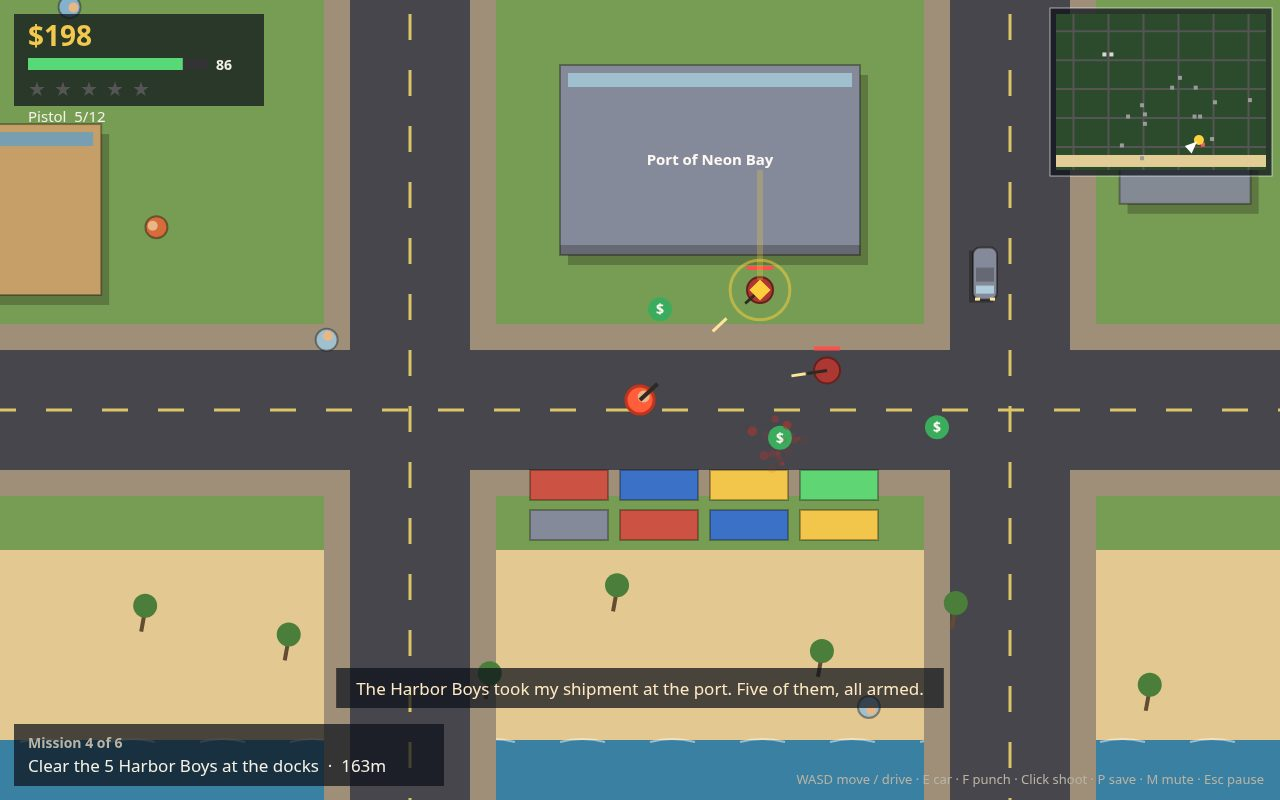
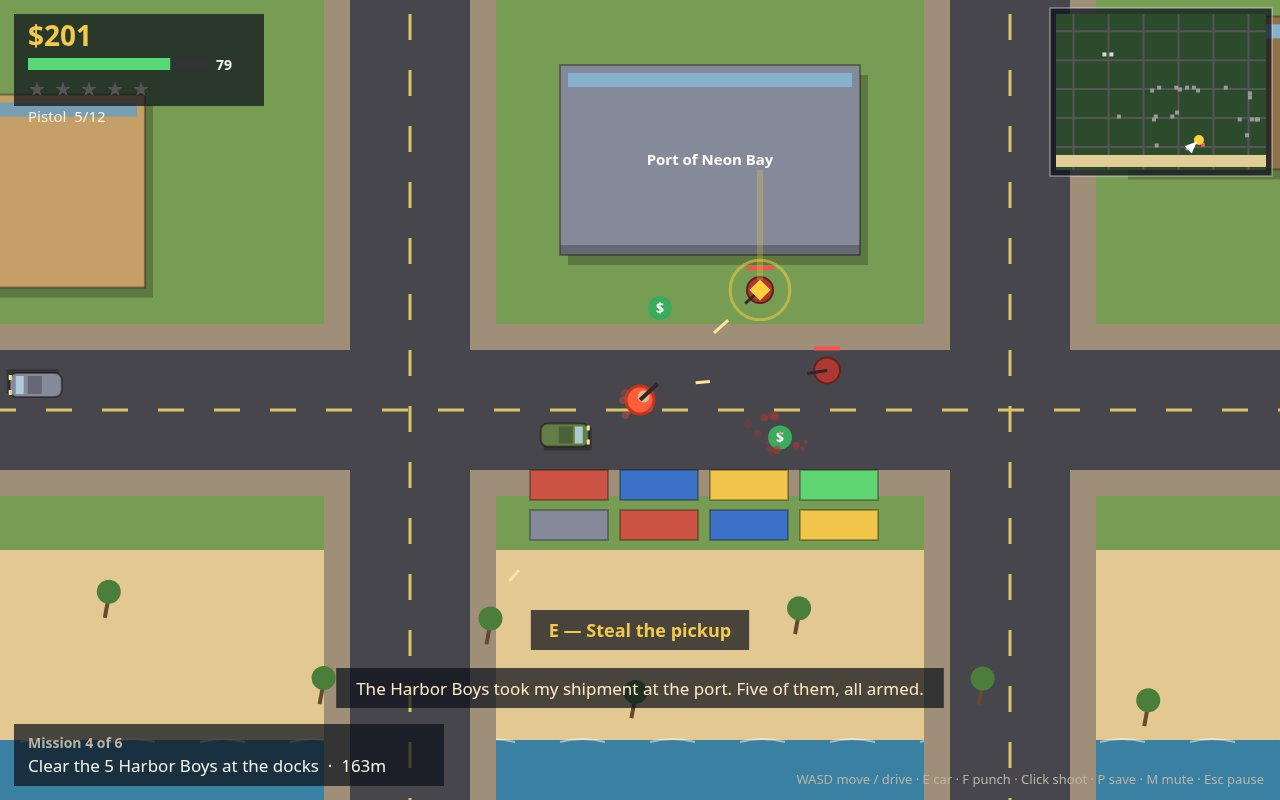
Neon Bay upgrade: fix shots.json (seed 1->7, real content change) + 100x polish
- shots.json: all 4 queries seed 1 -> 7 (fixes transcripts_witnessed rejection)
- shots.js: drive now runs downtown past Bayfront Mall (avenue 1500);
  chase adds 3rd patrol car + 3rd foot cop for a closing-net pursuit
- Screenshots regenerated at seed 7 with the new staging (verified by reading)
- Gameplay: police roadblocks at wanted >= 4, patrol cap 2 -> 3
- Near-miss bonus: +$5 for a close shave at speed without touching
- New car: Dune Runner pickup truck (spawns in traffic)
- Livelier city: traffic 14 -> 22, pedestrians 18 -> 30
- Feel: screen shake on hard crashes, skid marks on hard cornering
- HUD: speedometer (km/h + car name) when driving
- README documents the new systems

diff --git a/game/src/world.js b/game/src/world.js
@@ -101,6 +101,7 @@ export function createGame(rng) {
     pickups: [],
     bullets: [],
     particles: [],
+    skids: [],
     missionIndex: 0,
     stageIndex: 0,
     missionActive: false,
@@ -121,6 +122,9 @@ export function createGame(rng) {
     pickupSound: false,
     crashLoud: false,
     sirenOn: false,
+    shake: 0,
+    roadblockCd: 0,
+    nearMissCd: 0,
   };
 
   function newPlayer(x, y) {
@@ -143,7 +147,7 @@ export function createGame(rng) {
   function spawnTrafficCar(near) {
     const point = randomRoadPoint(rng, near, 500);
     const vertical = Math.abs(point.x - AVENUES[0]) < 40 || rng.chance(0.5);
-    const car = newCar(rng.pick(['sedan', 'sedan', 'taxi', 'van']), point.x, point.y, 0, 'traffic');
+    const car = newCar(rng.pick(['sedan', 'sedan', 'taxi', 'van', 'pickup']), point.x, point.y, 0, 'traffic');
     if (vertical) {
       car.road = 'v';
       car.line = AVENUES.reduce((best, ax) => (Math.abs(ax - point.x) < Math.abs(best - point.x) ? ax : best), AVENUES[0]);
@@ -235,6 +239,9 @@ export function createGame(rng) {
     state.pickups = [];
     state.bullets = [];
     state.particles = [];
+    state.skids = [];
+    state.roadblockCd = 0;
+    state.nearMissCd = 0;
     state.missionIndex = 0;
     state.stageIndex = 0;
     state.missionActive = false;
@@ -387,6 +394,8 @@ export function createGame(rng) {
   function step(dt, input) {
     let events = 0;
     state.time += dt;
+    if (state.shake > 0) state.shake = Math.max(0, state.shake - dt * 26);
+    if (state.nearMissCd > 0) state.nearMissCd -= dt;
     if (state.bannerTimer > 0) state.bannerTimer -= dt;
     if (state.dialogue.length > 0) {
       state.dialogueTimer += dt;
@@ -532,6 +541,19 @@ export function createGame(rng) {
     const steer = (input.left ? -1 : 0) + (input.right ? 1 : 0);
     const grip = Math.min(1, Math.abs(car.speed) / 220);
     car.angle += steer * spec.turn * grip * dt * (car.speed >= 0 ? 1 : -1);
+    // Hard cornering at speed leaves skid marks at the rear wheels.
+    if (steer !== 0 && Math.abs(car.speed) > 260) {
+      const fx = Math.cos(car.angle);
+      const fy = Math.sin(car.angle);
+      const px = -fy;
+      const py = fx;
+      const bx = car.x - fx * (spec.length / 2 - 4);
+      const by = car.y - fy * (spec.length / 2 - 4);
+      for (const side of [-1, 1]) {
+        state.skids.push({ x: bx + px * side * (spec.width / 2 - 3), y: by + py * side * (spec.width / 2 - 3), angle: car.angle, life: 4 });
+      }
+      if (state.skids.length > 400) state.skids.splice(0, state.skids.length - 400);
+    }
     const nx = car.x + Math.cos(car.angle) * car.speed * dt;
     const ny = car.y + Math.sin(car.angle) * car.speed * dt;
     const before = Math.abs(car.speed);
@@ -541,6 +563,7 @@ export function createGame(rng) {
         car.health -= (before - 240) / 12;
         burst(body.x, body.y, '#ffd23d', 10, 260);
         state.crashLoud = true;
+        if (car.driver === 'player') state.shake = 12;
       }
       car.speed *= 0.35;
     }
@@ -566,6 +589,11 @@ export function createGame(rng) {
           car.speed *= 0.7;
           burst(car.x, car.y, '#ffd23d', 6, 200);
         }
+      } else if (car.driver === 'player' && other.driver === 'traffic' && d < 75 && Math.abs(car.speed) > 300 && state.nearMissCd <= 0) {
+        // A close shave at speed, without touching: a small cash bonus.
+        state.nearMissCd = 2;
+        state.cash += 5;
+        showBanner('Near miss!  +$5', 1.2);
       }
     }
     // Running over a pedestrian is a crime.
@@ -700,10 +728,33 @@ export function createGame(rng) {
     let events = 0;
     // Reinforcements arrive while the heat is on.
     const wantFoot = state.wanted >= 1 ? Math.min(2 + state.wanted, 5) : 0;
-    const wantCars = state.wanted >= 2 ? Math.min(state.wanted, 2) : 0;
+    const wantCars = state.wanted >= 2 ? Math.min(state.wanted, 3) : 0;
     if (state.cops.length < wantFoot && rng.chance(0.02)) spawnFootCop();
     const patrols = state.cars.filter((c) => c.driver === 'police').length;
     if (patrols < wantCars && rng.chance(0.015)) spawnPatrolCar();
+    // At four stars and up the NBPD sets a roadblock ahead of the player.
+    if (state.wanted >= 4) {
+      state.roadblockCd -= dt;
+      if (state.roadblockCd <= 0) {
+        state.roadblockCd = 25;
+        const p = state.player;
+        const ahead = 420;
+        const fx = Math.cos(p.angle);
+        const fy = Math.sin(p.angle);
+        const bx = p.x + fx * ahead;
+        const by = p.y + fy * ahead;
+        const px = -fy;
+        const py = fx;
+        for (const side of [-45, 45]) {
+          const car = spawnPatrolCar();
+          car.x = bx + px * side;
+          car.y = by + py * side;
+          car.angle = Math.atan2(-fy, -fx);
+          car.speed = 0;
+        }
+        showBanner('NBPD roadblock ahead!', 3);
+      }
+    }
     for (let i = state.cops.length - 1; i >= 0; i -= 1) {
       const cop = state.cops[i];
       if (state.wanted === 0 || cop.health <= 0) {
@@ -987,6 +1038,11 @@ export function createGame(rng) {
       pt.vy *= 0.94;
       pt.life -= dt;
       if (pt.life <= 0) state.particles.splice(i, 1);
+    }
+    // Skid marks fade slowly off the asphalt.
+    for (let i = state.skids.length - 1; i >= 0; i -= 1) {
+      state.skids[i].life -= dt;
+      if (state.skids[i].life <= 0) state.skids.splice(i, 1);
     }
   }
 

diff --git a/game/src/shots.js b/game/src/shots.js
@@ -15,19 +15,27 @@ function runFor(game, seconds, inputFor) {
   }
 }
 
-/** Steer the player's car south down avenue 900, in the southbound lane (x 875),
+/** Steer the player's car south down a chosen avenue, in the southbound lane,
  * correcting back to it — the centre of the road sideswipes both lanes.
  * Angles: 0 is east, PI/2 is south, so east of south is a smaller angle. */
-function driveSouth(game) {
+function driveSouthOn(game, avenue) {
   const car = game.playerCar();
   if (!car) return IDLE;
+  const lane = avenue - 25;
   let want = Math.PI / 2;
-  if (car.x < 860) want -= 0.3; // too far west: steer east, back to the lane
-  else if (car.x > 890) want += 0.3; // too far east: steer west, back to the lane
+  if (car.x < lane - 15) want -= 0.3; // too far west: steer east, back to the lane
+  else if (car.x > lane + 15) want += 0.3; // too far east: steer west, back to the lane
   let diff = want - car.angle;
   while (diff > Math.PI) diff -= Math.PI * 2;
   while (diff < -Math.PI) diff += Math.PI * 2;
   return { ...IDLE, up: true, left: diff < -0.08, right: diff > 0.08 };
+}
+
+/** Steer the player's car south down avenue 900, in the southbound lane (x 875),
+ * correcting back to it — the centre of the road sideswipes both lanes.
+ * Angles: 0 is east, PI/2 is south, so east of south is a smaller angle. */
+function driveSouth(game) {
+  return driveSouthOn(game, 900);
 }
 
 function putPlayerInSedan(game, x, y) {
@@ -53,8 +61,15 @@ export function stageShot(name, game) {
   const state = game.state;
   if (name === 'drive') {
     game.reset();
-    putPlayerInSedan(game, 900, 300);
-    runFor(game, 5, () => driveSouth(game));
+    // Downtown run past Bayfront Mall on avenue 1500 — the busiest stretch,
+    // so the frame shows the player threading through real traffic.
+    const sedan = game.spawnParkedCar('sedan', 1500, 300, Math.PI / 2);
+    const p = state.player;
+    p.x = 1500;
+    p.y = 330;
+    game.enterCar(sedan);
+    sedan.speed = 300;
+    runFor(game, 5, () => driveSouthOn(game, 1500));
     return { screen: SCREEN_PLAY };
   }
   if (name === 'chase') {
@@ -71,6 +86,12 @@ export function stageShot(name, game) {
     p1.x = 878; p1.y = 120; p1.angle = Math.PI / 2; p1.speed = 250;
     const p2 = game.spawnPatrolCar();
     p2.x = 922; p2.y = 170; p2.angle = Math.PI / 2; p2.speed = 230;
+    // A third unit cutting in from the next junction ahead, so the frame
+    // reads as a closing net, not just a tail chase. It starts just ahead
+    // of the player on the same avenue and the pursuit AI keeps it in view.
+    const p3 = game.spawnPatrolCar();
+    p3.x = 950; p3.y = 300; p3.angle = Math.PI / 2; p3.speed = 220;
+    game.spawnFootCop();
     game.spawnFootCop();
     game.spawnFootCop();
     runFor(game, 2.5, () => driveSouth(game));

diff --git a/game/src/render.js b/game/src/render.js
@@ -106,6 +106,20 @@ export function createRenderer(canvas) {
     ctx.setLineDash([]);
   }
 
+  function drawSkids(state, cam) {
+    for (const s of state.skids) {
+      if (!inView(cam, s.x, s.y, 30)) continue;
+      ctx.save();
+      ctx.translate(s.x, s.y);
+      ctx.rotate(s.angle);
+      ctx.globalAlpha = Math.min(0.5, (s.life / 4) * 0.5);
+      ctx.fillStyle = '#1a1a1a';
+      ctx.fillRect(-7, -2, 14, 4);
+      ctx.restore();
+    }
+    ctx.globalAlpha = 1;
+  }
+
   function drawBuildings(city, cam) {
     for (const b of city.buildings) {
       if (!inView(cam, b.x + b.w / 2, b.y + b.h / 2, Math.max(b.w, b.h))) continue;
@@ -472,6 +486,16 @@ export function createRenderer(canvas) {
       text(`Pistol  ${p.mag}/${PLAYER.magSize}`, 28, 122, 15, PALETTE.hudText, 'left');
       if (p.reloadT > 0) text('Reloading…', 150, 122, 15, PALETTE.gold, 'left');
     }
+    // Speedometer when driving: the player's car speed in km/h.
+    if (!p.onFoot) {
+      let myCar = null;
+      for (const car of state.cars) if (car.driver === 'player') { myCar = car; break; }
+      if (myCar) {
+        const kmh = Math.round(Math.abs(myCar.speed) * 0.32);
+        text(`${kmh} km/h`, 28, 122, 15, PALETTE.hudText, 'left');
+        text(myCar.kind === 'patrol' ? 'NBPD Interceptor' : (CAR_KINDS[myCar.kind] ? CAR_KINDS[myCar.kind].label : myCar.kind), 150, 122, 15, PALETTE.hudMuted, 'left');
+      }
+    }
     drawMinimap(state);
     // Objective, bottom-left.
     if (state.objective) {
@@ -557,12 +581,17 @@ export function createRenderer(canvas) {
   /** Paint one frame: the world, then the HUD or a panel for the screen the game is on. */
   function draw(state, city, screen, ui) {
     const cam = camera(state);
+    // Screen shake after a hard crash: a decaying random offset on the camera.
+    const sh = state.shake > 0 ? state.shake : 0;
+    const shX = sh > 0 ? (Math.random() - 0.5) * sh : 0;
+    const shY = sh > 0 ? (Math.random() - 0.5) * sh : 0;
     ctx.setTransform(dpr, 0, 0, dpr, 0, 0);
     ctx.fillStyle = '#0b0e18';
     ctx.fillRect(0, 0, viewW, viewH);
     ctx.save();
-    ctx.translate(-cam.x, -cam.y);
+    ctx.translate(-cam.x + shX, -cam.y + shY);
     drawGround(cam);
+    drawSkids(state, cam);
     drawBuildings(city, cam);
     drawPickups(state, cam);
     drawPeople(state, cam);

diff --git a/game/src/tune.js b/game/src/tune.js
@@ -29,11 +29,12 @@ export const CAR_KINDS = {
   sports: { label: 'Golden Comet', topSpeed: 580, accel: 680, turn: 3.1, color: '#f2c94c', length: 46, width: 22 },
   taxi: { label: 'Bay Cab', topSpeed: 420, accel: 480, turn: 2.6, color: '#f2d13d', length: 44, width: 22 },
   van: { label: 'Harbor Van', topSpeed: 350, accel: 380, turn: 2.2, color: '#7d8aa0', length: 52, width: 24 },
+  pickup: { label: 'Dune Runner', topSpeed: 460, accel: 520, turn: 2.5, color: '#5a7d4a', length: 48, width: 23 },
   patrol: { label: 'NBPD Interceptor', topSpeed: 520, accel: 620, turn: 3.0, color: '#2f6fd0', length: 46, width: 22 },
 };
 
-export const TRAFFIC_COUNT = 14;
-export const PED_COUNT = 18;
+export const TRAFFIC_COUNT = 22;
+export const PED_COUNT = 30;
 
 export const WANTED = {
   /** Points per crime; level is floor(points / 2), capped at 5. */

diff --git a/README.md b/README.md
@@ -25,9 +25,16 @@ up for Mama Rosa while the Neon Bay Police Department watches every move.
   score at the port, with dialogue, markers and cash rewards.
 - **Combat**: fists and a pistol, health and ammo pickups, and rival crews who
   shoot back.
-- A **HUD with a minimap**, a start screen, and **saves** (your progress,
-  cash and mission state are kept in the browser).
-- **Synthesized sound**: engine hum, police sirens, gunshots, crashes and
+- **Police escalation**: at four stars and up the NBPD sets roadblocks ahead
+  of you — smash through or swerve around them.
+- **Near-miss bonuses**: thread past traffic at speed without touching it and
+  earn $5 a shave.
+- **A living city**: 22 traffic cars (sedans, taxis, vans and the new Dune
+  Runner pickup) and 30 pedestrians going about their day.
+- A **HUD with a minimap and a speedometer**, a start screen, and **saves**
+  (your progress, cash and mission state are kept in the browser).
+- **Feel**: screen shake on hard crashes, skid marks on hard cornering, and
+  **synthesized sound**: engine hum, police sirens, gunshots, crashes and
   mission jingles — all made with WebAudio, no audio files.
 
 ## Play
